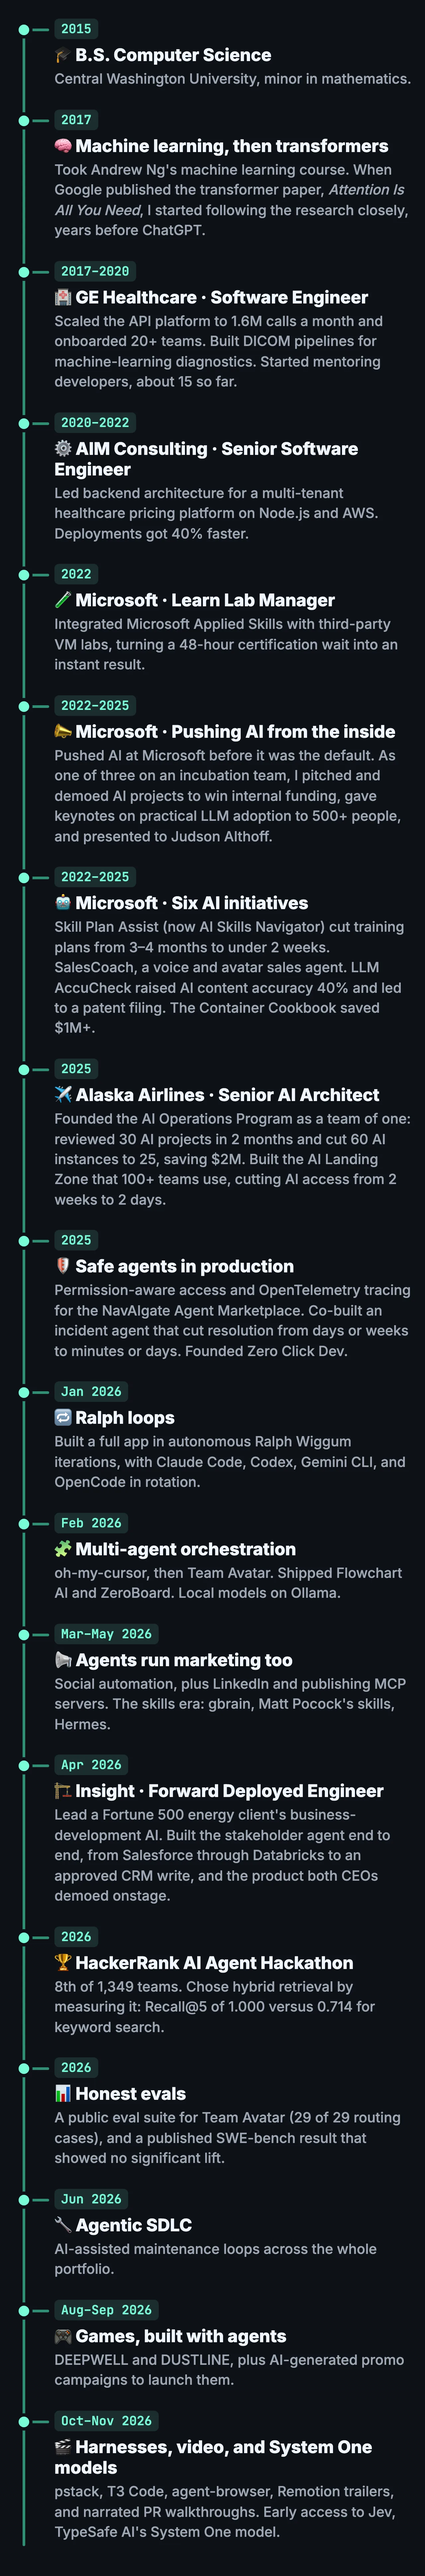
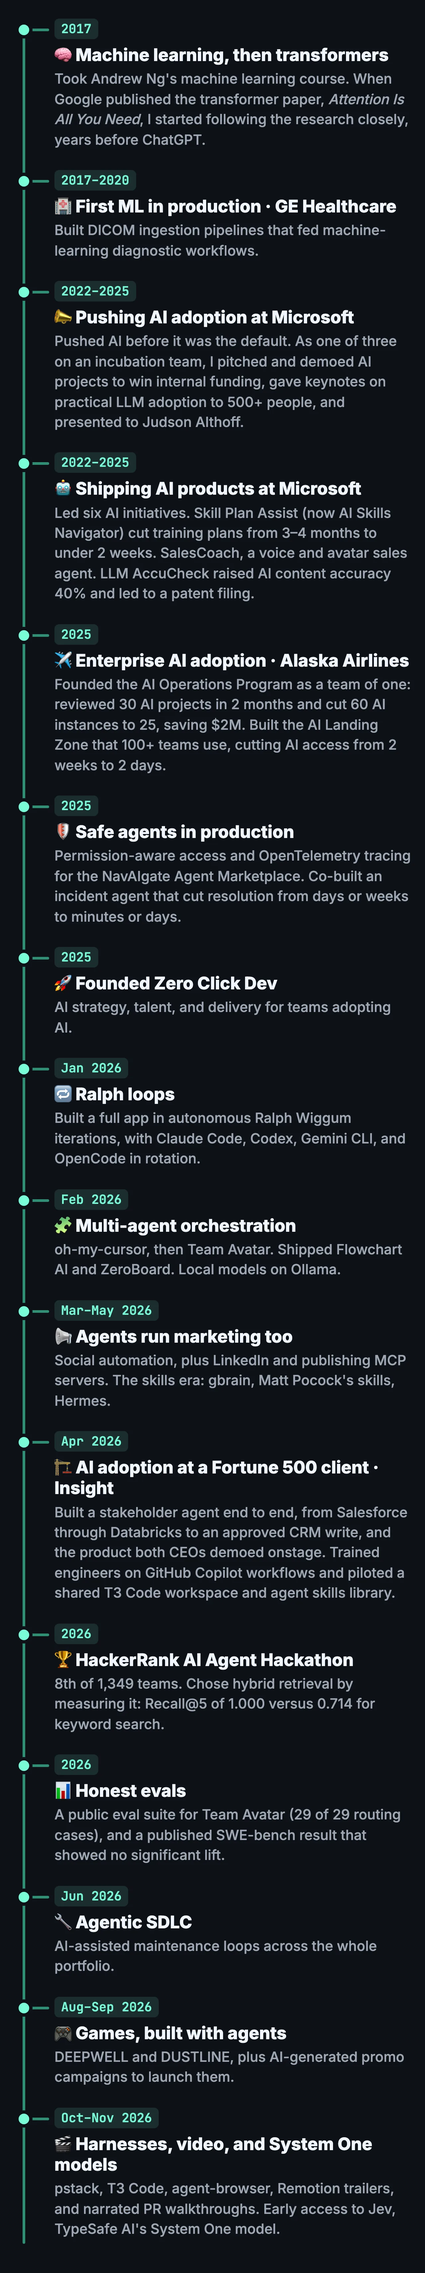
Refocus timeline on AI use and adoption

diff --git a/README.md b/README.md
@@ -76,11 +76,11 @@
   <tr>
     <td>
       <details>
-        <summary><b>My AI Experience Timeline</b> <sub>2015 → today</sub></summary>
+        <summary><b>My AI Experience Timeline</b> <sub>2017 → today</sub></summary>
         <br />
         <picture>
           <source media="(prefers-color-scheme: dark)" srcset="assets/timeline-dark.webp" />
-          <img width="100%" src="assets/timeline-light.webp" alt="Timeline: 2015 B.S. Computer Science. 2017 machine learning and transformer research. 2017-2020 GE Healthcare API platform. 2020-2022 AIM Consulting. 2022-2025 Microsoft: pushing AI from the inside, six AI initiatives. 2025 Alaska Airlines AI Operations Program and AI Landing Zone. 2026: Ralph loops, Team Avatar, Insight forward deployed engineer, HackerRank 8th of 1,349, evals, agentic SDLC, games, Jev." />
+          <img width="100%" src="assets/timeline-light.webp" alt="AI timeline: 2017 machine learning and transformer research. 2017-2020 first ML in production at GE Healthcare. 2022-2025 pushing AI adoption and shipping AI products at Microsoft. 2025 enterprise AI adoption at Alaska Airlines, safe agents in production, founded Zero Click Dev. 2026: Ralph loops, multi-agent orchestration, AI adoption at a Fortune 500 client through Insight, HackerRank 8th of 1,349, honest evals, agentic SDLC, games built with agents, Jev." />
         </picture>
       </details>
     </td>
